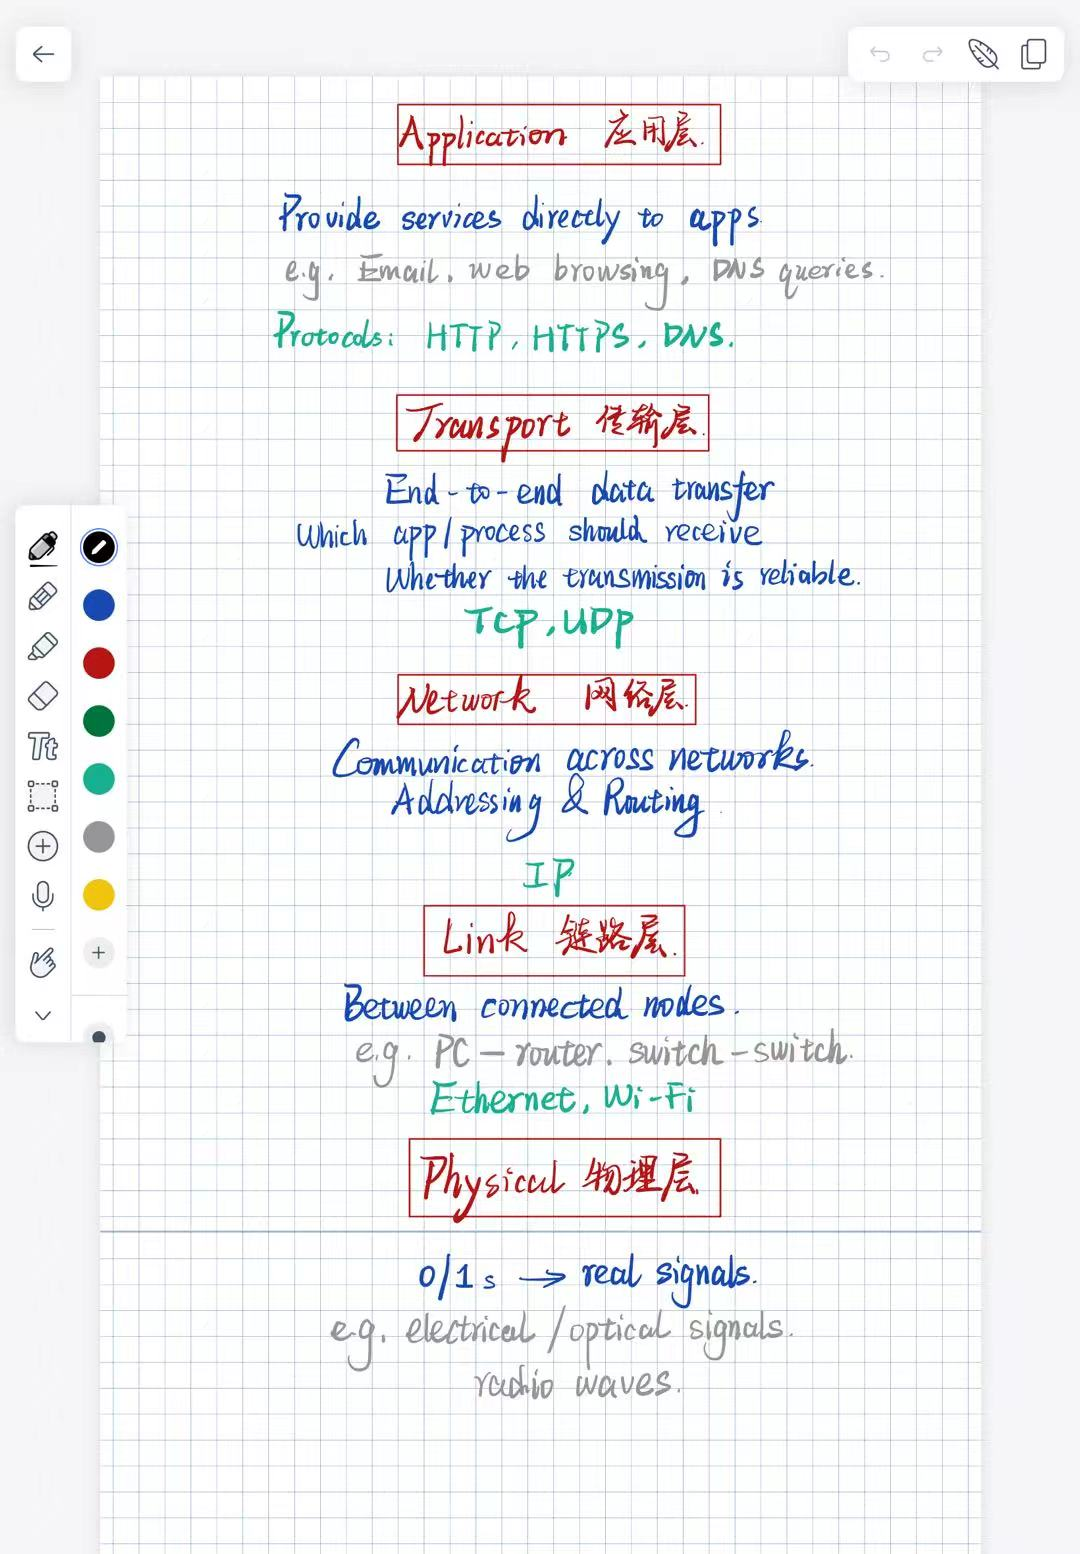
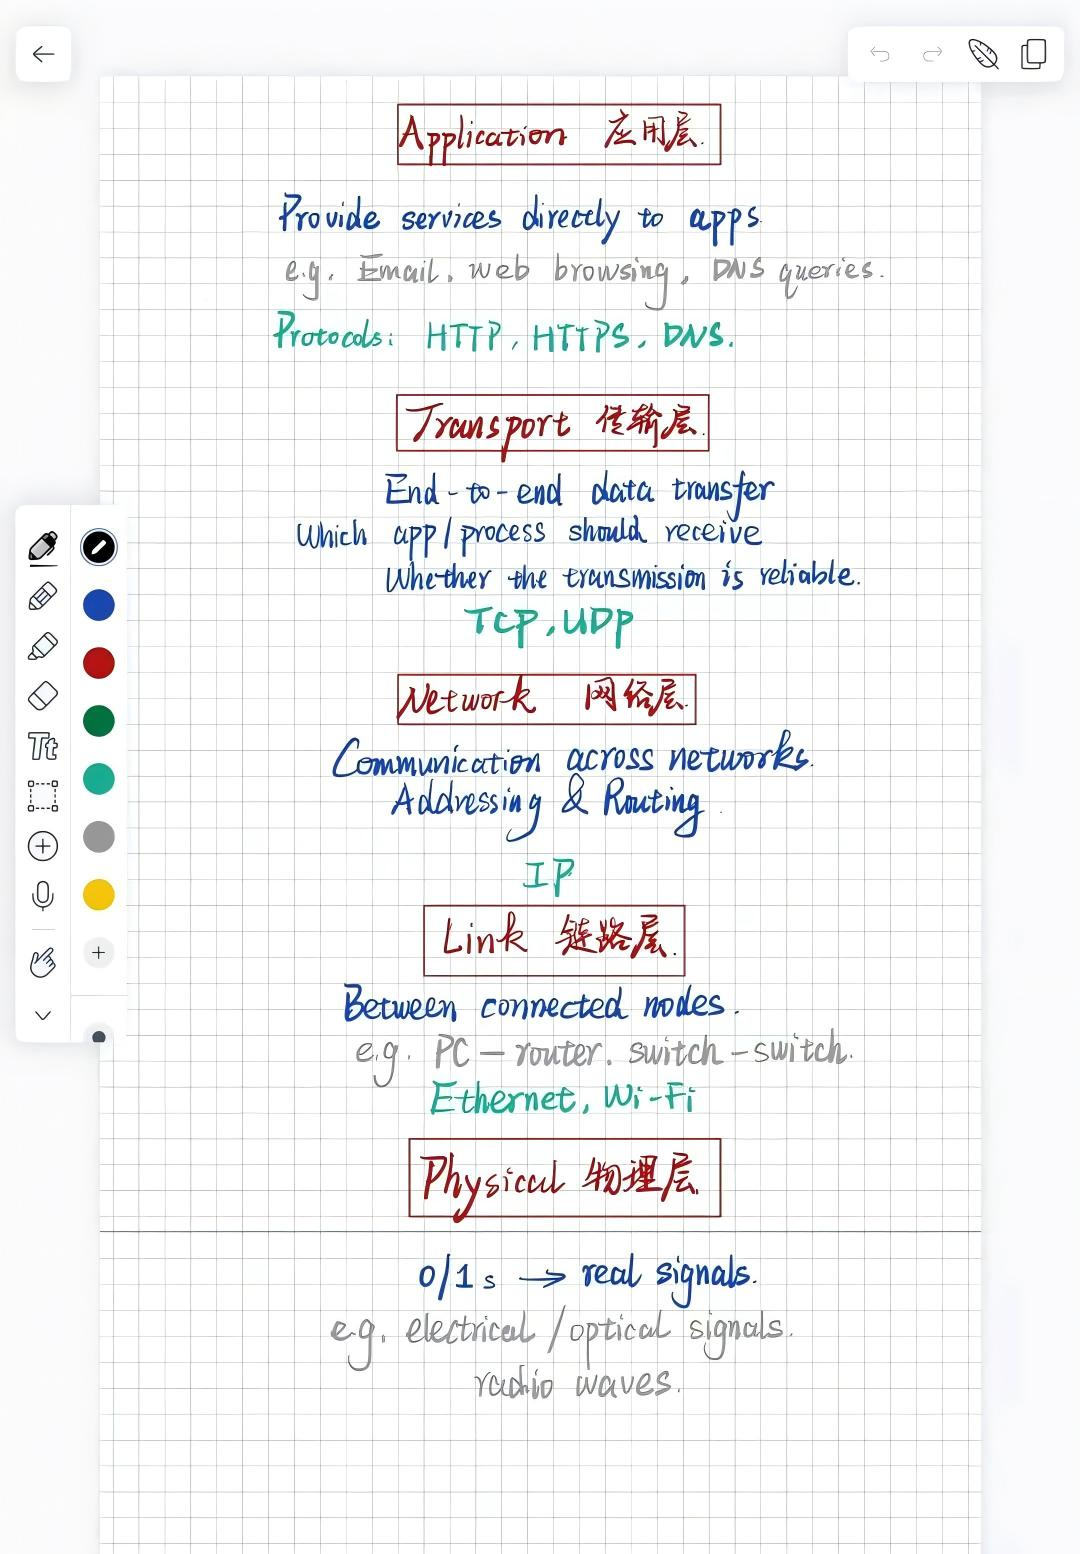
docs: chapter1.md--2.1 five layers

diff --git a/Notes/Chapter1 Introduction.md b/Notes/Chapter1 Introduction.md
@@ -144,3 +144,5 @@ rate at which bits transferred between sender/receiver
 
 **Physical**: 0/1s -> real signals
   - e.g. fiber optic, copper wire, radio
+
+<img src="pictures/five_layers.jpg" width="75%" />
